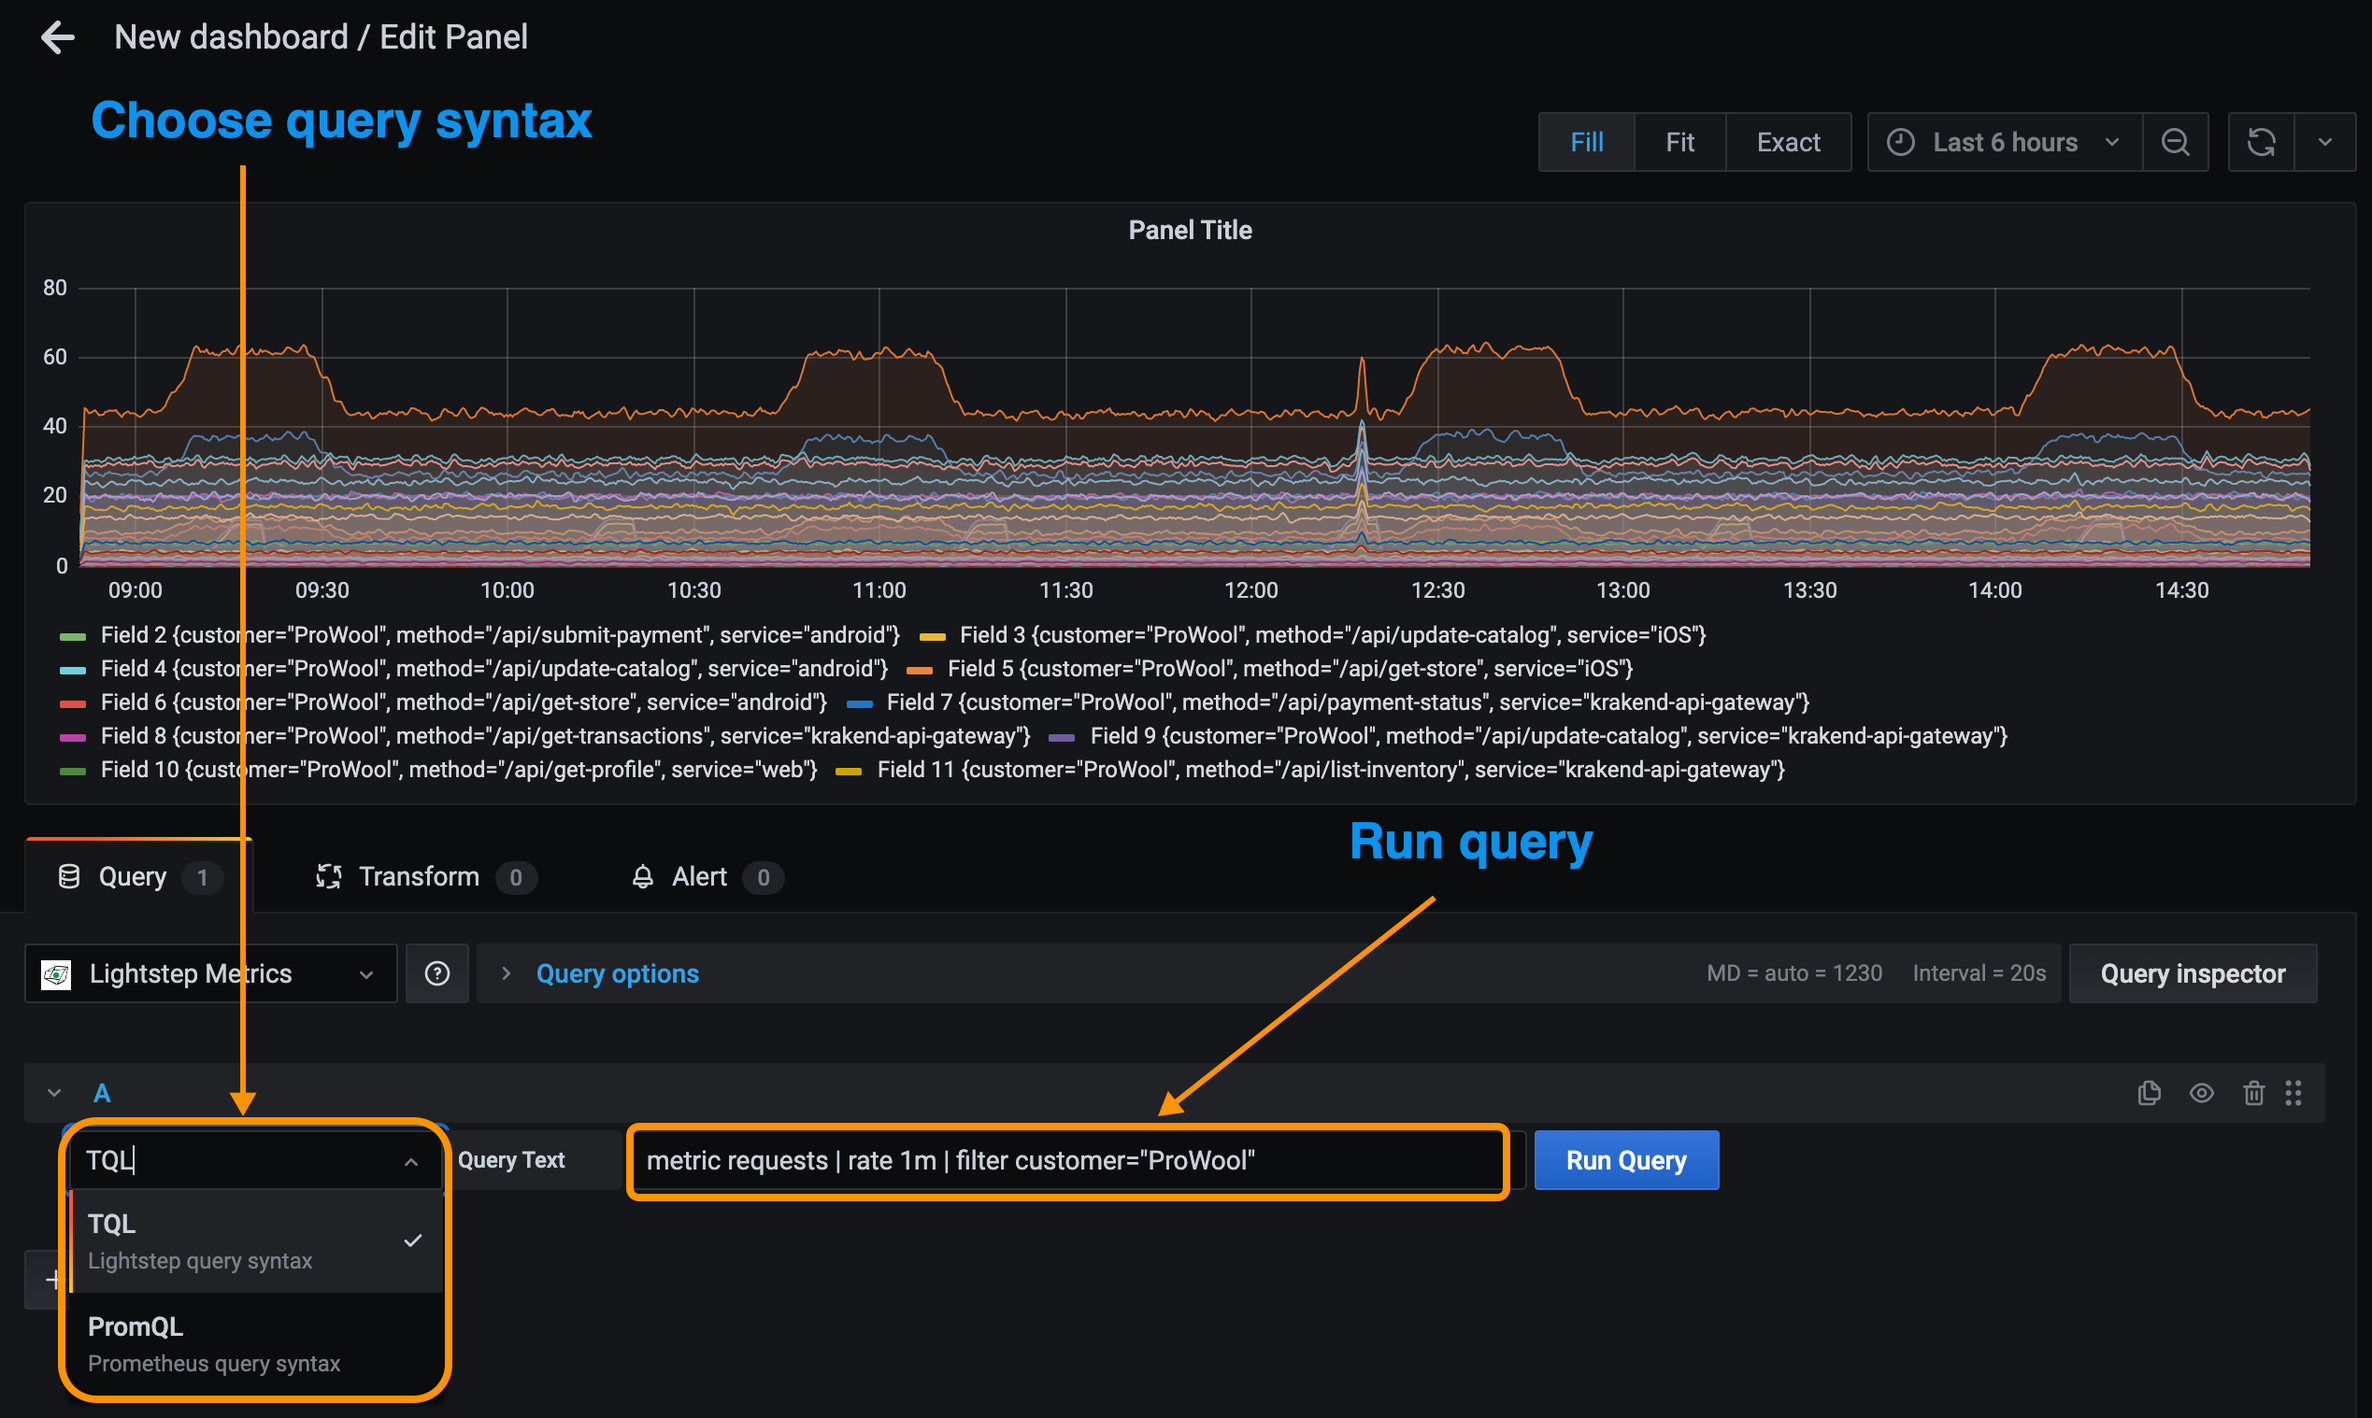
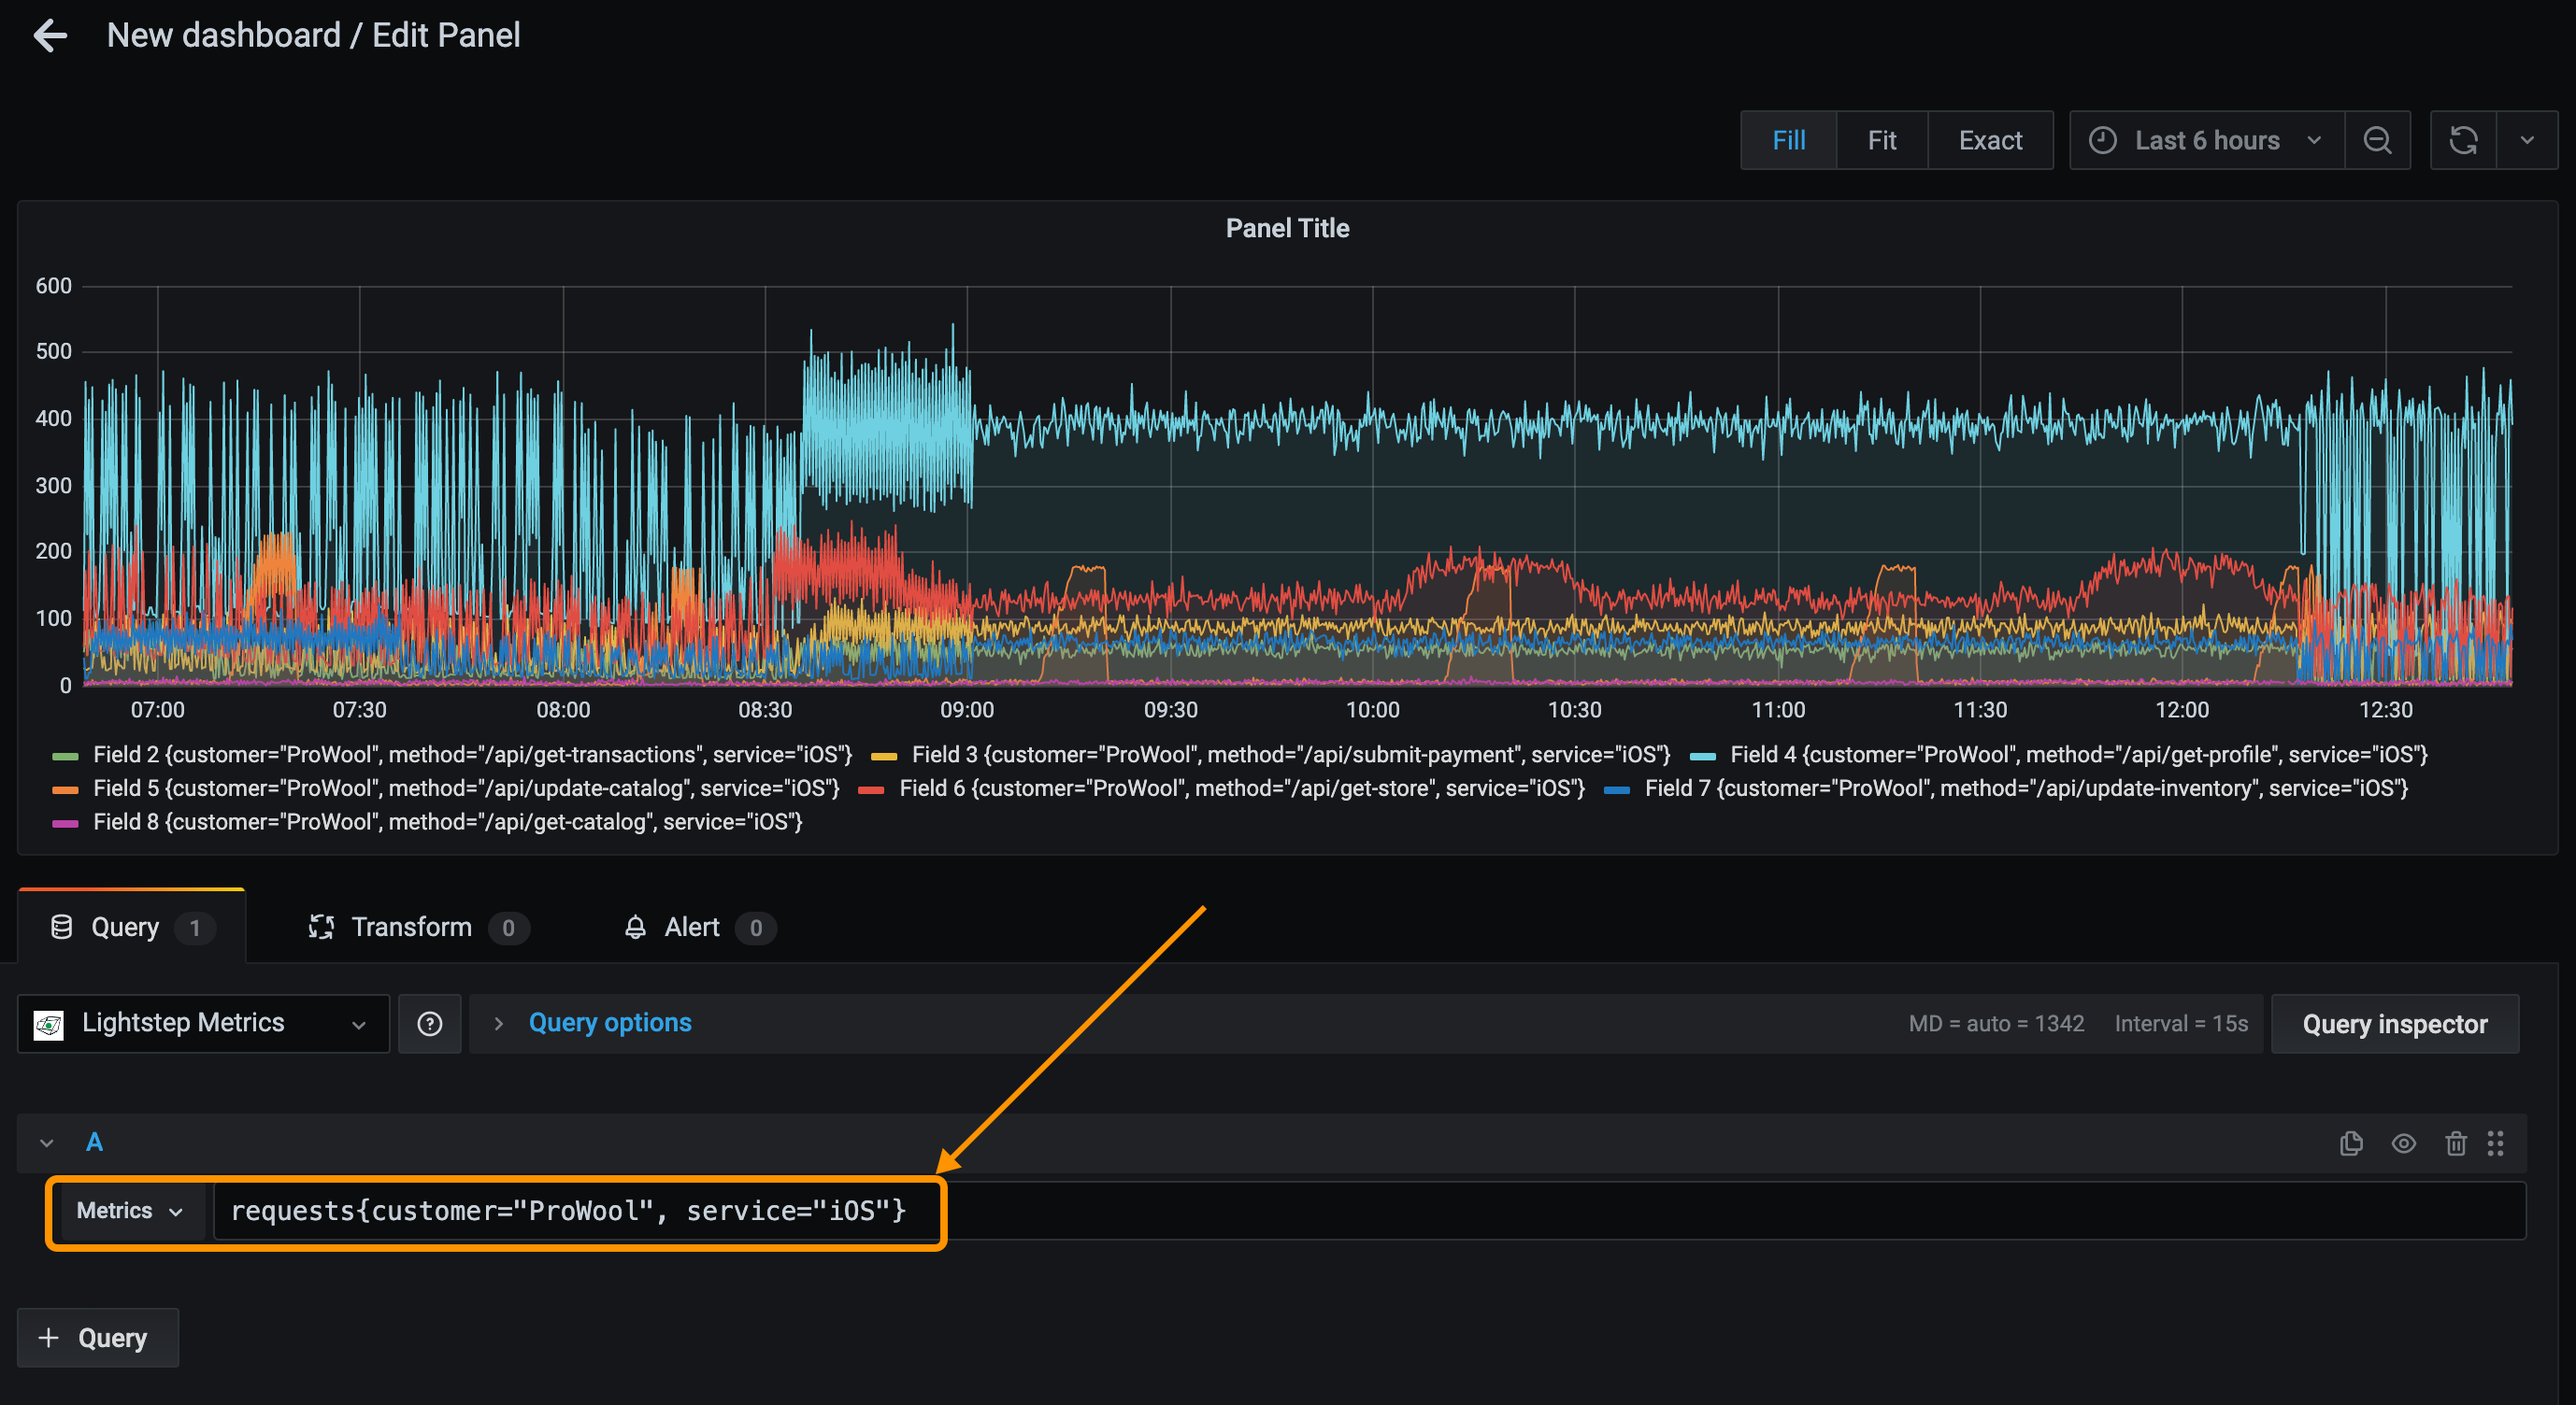
update to readme to reflect changes for new submission

diff --git a/README.md b/README.md
@@ -83,11 +83,14 @@ With the Lightstep plugin installed, you can query your Lightstep metrics direct
 
    ![Lightstep as data source](https://github.com/lightstep/lightstep-metrics-datasource/blob/main/images/docs/graf_metciSource.png)
 
-2. Enter your query in the **Query Text** field and click **Run Query**.
+2. Use the **Metrics** dropdown to select the metric for your query. ![Select metric](/images/docs/graf_metSelect.png)
 
-   Your query should be written in [PromQL](https://prometheus.io/docs/prometheus/latest/querying/basics/).
+
+3. Continue adding to your query in the **Metrics** field, using the [PromQL](https://prometheus.io/docs/prometheus/latest/querying/basics/) query language.
 
    ![Enter a query](https://github.com/lightstep/lightstep-metrics-datasource/blob/main/images/docs/graf_metciQuery.png)
+
+   Click out of the field (or press `shift` + `Enter`) to run your query.
 
 3. Choose the visualization for the chart (Lightstep supports either **Graph** or **Time Series**). Click **Apply** to create the graph.
 
